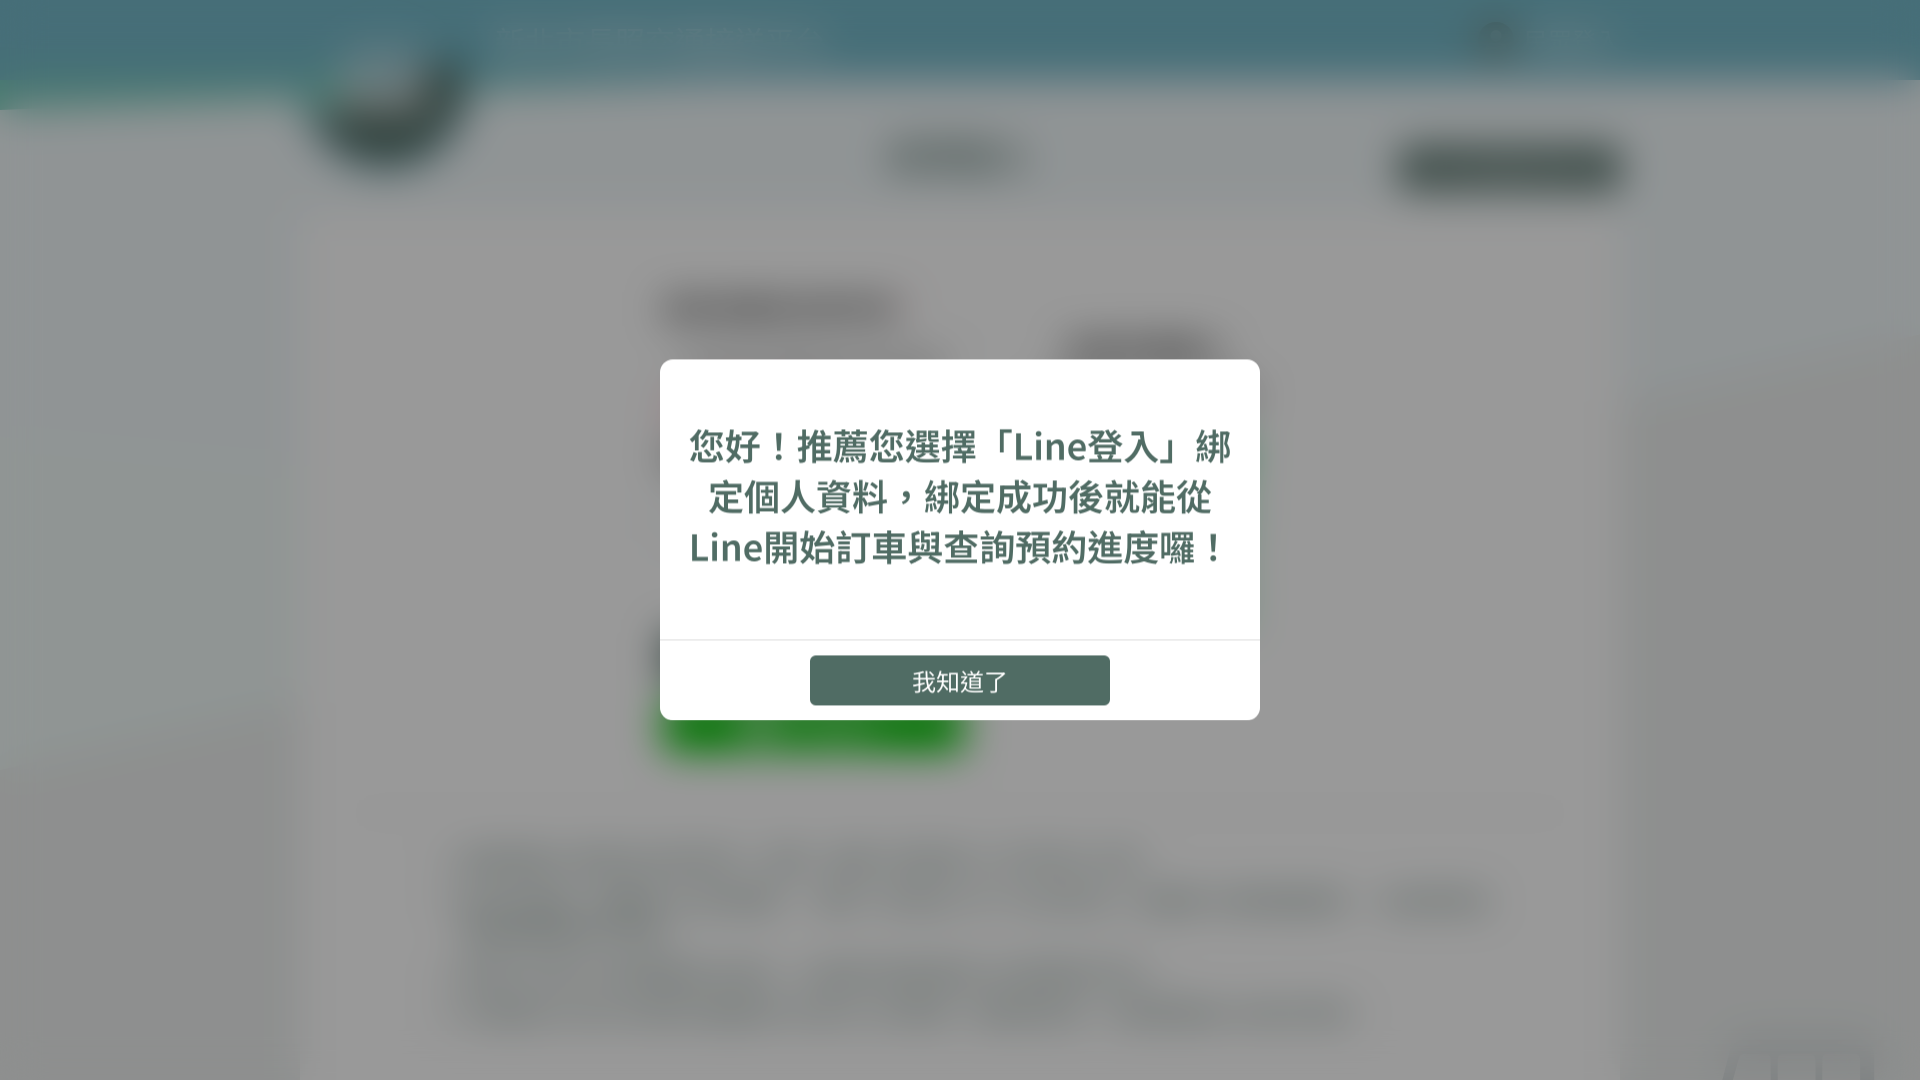
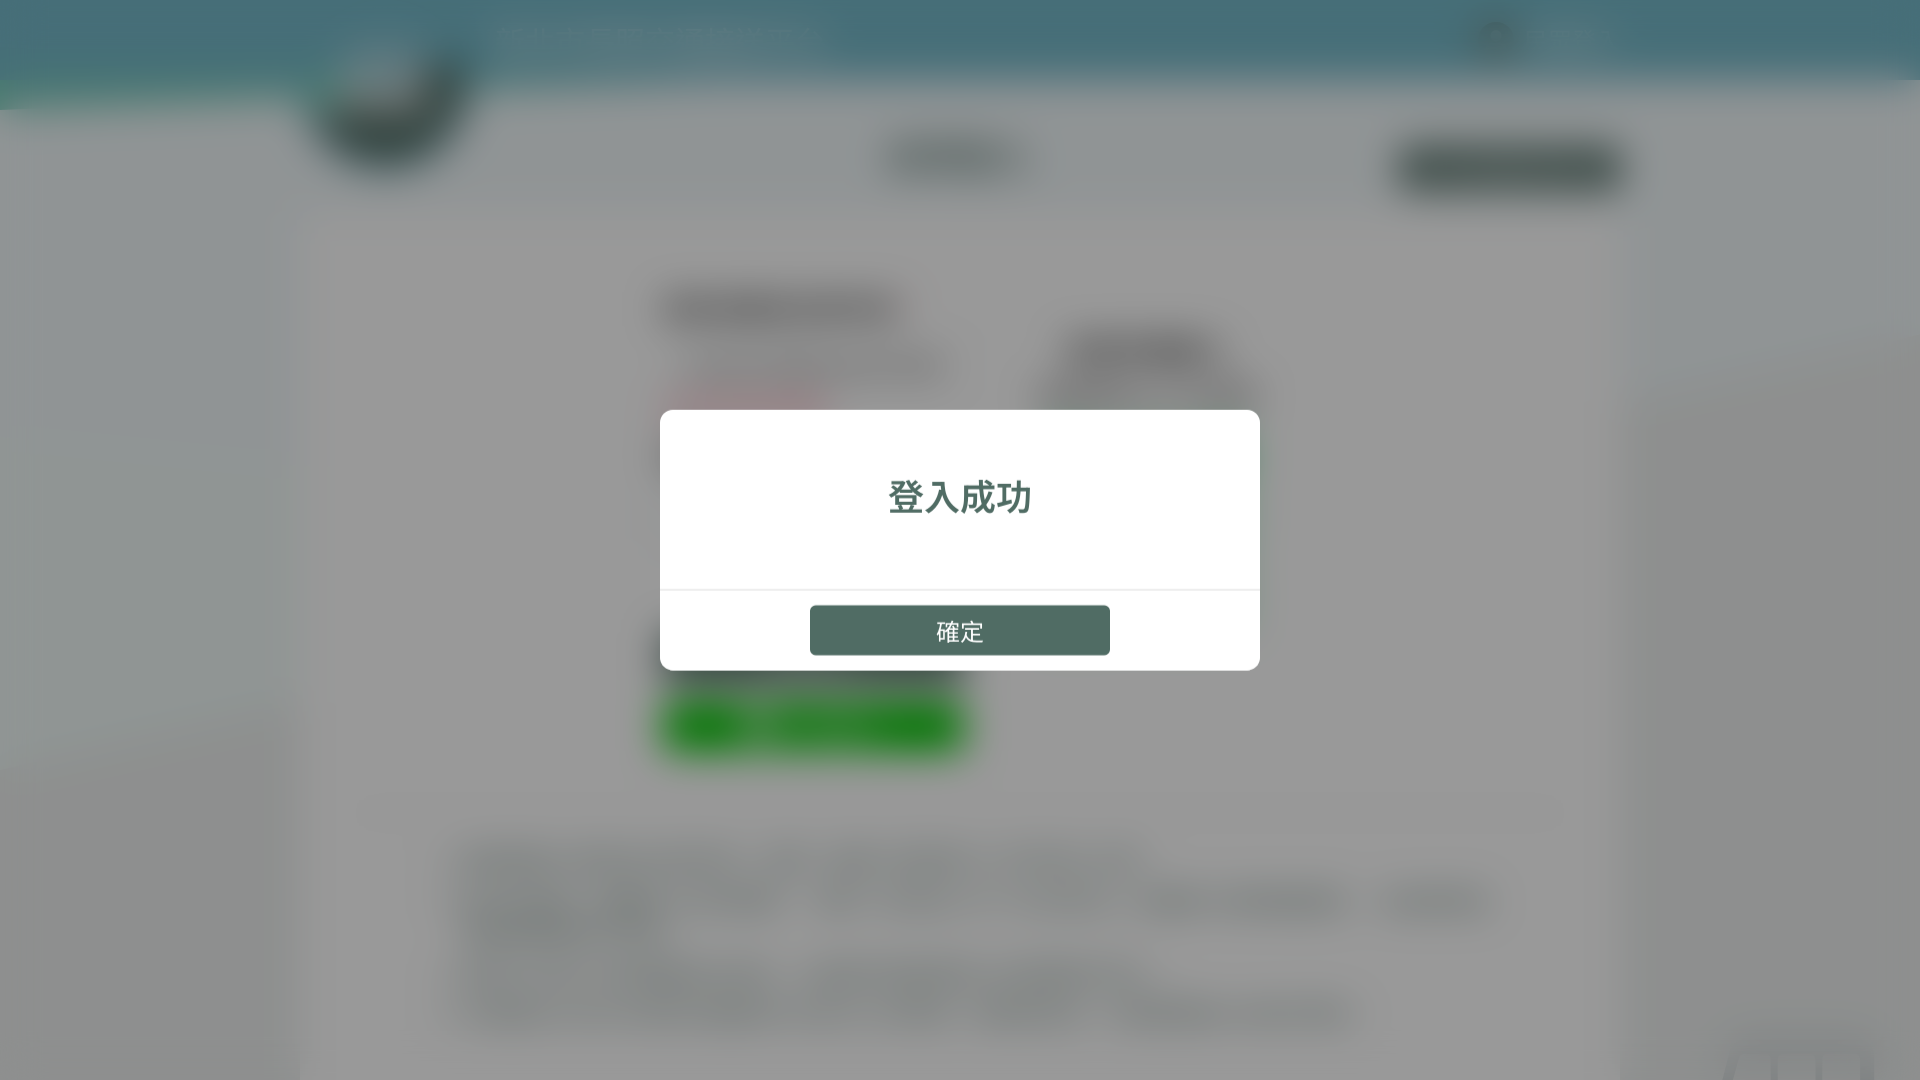
fix: 改進登入按鈕的點擊和登入成功的判斷邏輯

Changed region(s): [[0.3438, 0.3056, 0.6562, 0.5194], [0.3438, 0.55, 0.6562, 0.6722]]

diff --git a/index.js b/index.js
@@ -182,9 +182,10 @@ async function bookCar() {
             // 點擊「民眾登入」按鈕
             console.log('點擊「民眾登入」按鈕...');
             const loginButton = await page.evaluate(() => {
-                const buttons = Array.from(document.querySelectorAll('a.button-fill.button-large.color_deep_main'));
+                const buttons = Array.from(document.querySelectorAll('button, a, .dialog-button, .button-fill'));
                 const loginBtn = buttons.find(btn => btn.textContent.trim() === '民眾登入');
                 if (loginBtn) {
+                    console.log('找到登入按鈕：', loginBtn.outerHTML);
                     loginBtn.click();
                     return true;
                 }
@@ -192,43 +193,71 @@ async function bookCar() {
             });
             
             if (!loginButton) {
+                // 如果找不到按鈕，截圖並印出所有按鈕
+                await page.screenshot({ path: 'login_button_not_found.png', fullPage: true });
+                const buttonTexts = await page.evaluate(() => {
+                    return Array.from(document.querySelectorAll('button, a, .dialog-button, .button-fill'))
+                        .map(btn => ({
+                            text: btn.textContent.trim(),
+                            html: btn.outerHTML
+                        }));
+                });
+                console.log('頁面上的按鈕：', buttonTexts);
                 throw new Error('找不到「民眾登入」按鈕');
             }
             
             // 等待登入成功訊息
             console.log('等待登入成功訊息...');
-            let loginSuccess = false;
             try {
+                // 等待可能出現的登入成功訊息
                 await page.waitForFunction(
                     () => {
-                        const dialogText = document.querySelector('.dialog-text');
-                        return dialogText && dialogText.textContent.includes('登入成功');
+                        // 檢查是否有成功訊息
+                        const successDialog = document.querySelector('.dialog-text');
+                        if (successDialog && successDialog.textContent.includes('登入成功')) {
+                            return true;
+                        }
+                        
+                        // 檢查是否已經進入預約頁面（沒有登入表單）
+                        const loginForm = document.querySelector('input[type="text"], input[type="password"]');
+                        if (!loginForm) {
+                            return true;
+                        }
+                        
+                        return false;
                     },
                     { timeout: 15000 }
                 );
-                loginSuccess = true;
-                // 點擊確定按鈕
-                console.log('點擊確定按鈕...');
-                const confirmButton = await page.waitForSelector('.dialog-button', { visible: true });
+                
+                // 如果有成功訊息，點擊確定按鈕
+                const confirmButton = await page.evaluate(() => {
+                    const button = document.querySelector('.dialog-button');
+                    if (button) {
+                        button.click();
+                        return true;
+                    }
+                    return false;
+                });
+                
                 if (confirmButton) {
-                    await confirmButton.click();
+                    console.log('點擊確定按鈕...');
                     await new Promise(resolve => setTimeout(resolve, 3000));
                 }
             } catch (error) {
                 console.log('等待登入成功訊息時發生錯誤：', error.message);
-            }
-            // 無論成功或失敗都截圖
-            await page.screenshot({ path: 'login_result.png', fullPage: true });
-            // 印出所有 dialog-text 或錯誤訊息
-            const dialogs = await page.evaluate(() => {
-                return Array.from(document.querySelectorAll('.dialog-text')).map(e => e.textContent.trim());
-            });
-            if (dialogs.length > 0) {
-                console.log('畫面上所有 dialog-text：', dialogs);
-            } else {
-                console.log('畫面上沒有 dialog-text');
-            }
-            if (!loginSuccess) {
+                // 截圖並印出當前頁面狀態
+                await page.screenshot({ path: 'login_failed.png', fullPage: true });
+                const pageState = await page.evaluate(() => {
+                    return {
+                        hasLoginForm: !!document.querySelector('input[type="text"], input[type="password"]'),
+                        dialogText: Array.from(document.querySelectorAll('.dialog-text')).map(el => el.textContent.trim()),
+                        visibleButtons: Array.from(document.querySelectorAll('button, a, .dialog-button, .button-fill')).map(btn => ({
+                            text: btn.textContent.trim(),
+                            html: btn.outerHTML
+                        }))
+                    };
+                });
+                console.log('頁面狀態：', pageState);
                 throw new Error('登入失敗：無法確認登入狀態');
             }
         });
